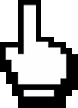
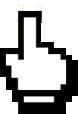
add animation

diff --git a/title.py b/title.py
@@ -1,0 +1,103 @@
+import random
+import time
+
+from PyQt5 import QtWidgets
+from PyQt5.QtGui import QFont, QPixmap
+from PyQt5.QtCore import QTimer
+from PyQt5.QtWidgets import QApplication, QMainWindow
+from gpg.gpgme import gpgme_conf_opt
+
+SHELF_SIZE = 50
+T = -5
+V = 1
+A = 1
+X_V = 1
+
+
+def start_animation(title, window, FUNC):
+    title.timer = QTimer()
+    timer = window.title.timer
+    starting_cordinate_hero = [window.title.x(), window.title.y()]
+    timer.timeout.connect(lambda: FUNC(starting_cordinate_hero, window.title))
+    timer.start(29)
+
+
+def change_img(obj, ARRAY_OF_IMG, index, H, W):
+    pixmap = QPixmap(ARRAY_OF_IMG[index])
+    pixmap = pixmap.scaledToHeight(H)
+    pixmap = pixmap.scaledToWidth(W)
+    obj.setPixmap(pixmap)
+
+
+def animation_TO_RIGHT(starting_cordinate_hero, hero):
+    global T, V, A
+    start_y = starting_cordinate_hero[1]
+    hero.move(hero.x() + T, start_y)
+    if T > 25:
+        T += 3
+    else:
+        T += 1
+
+    if hero.x() >= window.width() // 2 - hero.width() // 2 + 10:
+        hero.timer.stop()
+        T = -15
+
+        # start_animation(title, window, animation_TO_LEFT)
+
+
+def animation_TO_LEFT(starting_cordinate_hero, hero):
+    global T, V, A
+    start_y = starting_cordinate_hero[1]
+    hero.move(hero.x() - T, start_y)
+    if T > 15:
+        T += 3
+    else:
+        T += 1
+    if hero.x() <= -hero.width():
+        hero.timer.stop()
+        T = -5
+        start_animation(title, window, animation_TO_RIGHT)
+
+
+def go_to_CLICK(hand):
+    global IMG_HANDS
+    change_img(hand, IMG_HANDS, 0, 60, 60)
+    IMG_HANDS = IMG_HANDS[::-1]
+
+
+root = QApplication([])
+window = QMainWindow()
+bg_new = 'background-color: rgb(%d,%d,%d);' % (random.randint(1, 255), random.randint(1, 255), random.randint(1, 255))
+
+window.setStyleSheet(bg_new)
+window.resize(900, 600)
+
+title = QtWidgets.QLabel(window)
+title.setStyleSheet("background-color: rgba(0,0,0,0%)")
+IMG_TITLE = [QPixmap("static/img/title")]
+change_img(title, IMG_TITLE, 0, 330, 430)
+title.resize(450, 300)
+title.move(window.width() // 2 - title.width() // 2, window.height() // 2 - 272)
+title.move(-123, window.height() // 2 - 272)
+window.layout().addWidget(title)
+window.title = title
+
+hand = QtWidgets.QLabel(window)
+IMG_HANDS = [QPixmap("static/img/hand0.png"), QPixmap("static/img/hand1.png")]
+bg_new = 'background-color: rgb(%d,%d,%d);' % (random.randint(1, 255), random.randint(1, 255), random.randint(1, 255))
+hand.setStyleSheet("background-color: rgba(0,0,0,0%)")
+# hand.setStyleSheet(bg_new)
+hand.resize(100, 90)
+hand.move(window.width() // 2 - hand.width() // 2 + 10, window.height() // 2 + 30)
+window.layout().addWidget(hand)
+window.hand = hand
+
+hand.timer = QTimer()
+timer = window.hand.timer
+timer.timeout.connect(lambda: go_to_CLICK(hand))
+timer.start(400)
+
+start_animation(title, window, animation_TO_RIGHT)
+
+window.show()
+root.exec()

diff --git a/coin.py b/coin.py
@@ -1,7 +1,7 @@
 import random
 
 from PyQt5 import QtWidgets
-from PyQt5.QtGui import QFont
+from PyQt5.QtGui import QFont, QPixmap
 
 SHELF_SIZE = 50
 T = 0
